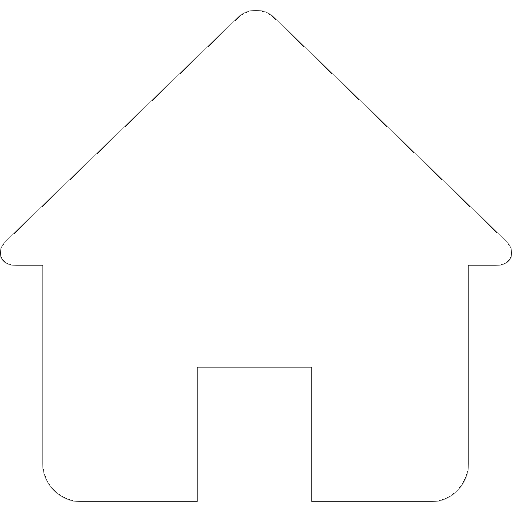
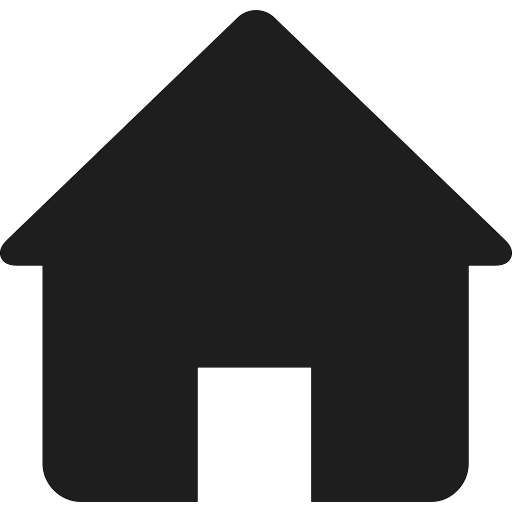
cambios casi finales

diff --git a/css/estilo.css b/css/estilo.css
@@ -1391,6 +1391,7 @@ APP PRINCIPAL
 }
 
 .app-forms{
+    overflow-y: auto;
     align-self: baseline;
     align-content: space-between;
     width: 100%;
@@ -1417,7 +1418,7 @@ APP PRINCIPAL
     background-color: var(--secundario);
 }
 .app-forms::-webkit-scrollbar-thumb{
-    background-color: var(--texto);
+    background-color: black;
 }
 
 .form-item{
@@ -1568,7 +1569,7 @@ APP PRINCIPAL
     padding: 12px;
     border: 2px solid var(--texto);
     border-radius: 10px;
-    background: var(--fondo);
+    background: #f4f4f4;
     font-size: 16px;
     box-sizing: border-box;
 }
@@ -1579,7 +1580,7 @@ APP PRINCIPAL
     padding: 12px;
     border: none;
     border-radius: 10px;
-    background: var(--texto);
+    background: #333;
     color: white;
     font-weight: bold;
     cursor: pointer;
@@ -1731,12 +1732,12 @@ nav .btn-cerrar-sesion:active {
 
 /*app-graficar*/
 .app-graficar{
-    background-color: var(--secundario);
+    background-color: var(--color-blue-light);
 }
 
 
 .registro-semanal-item{
-    background-color: var(--tarjeta);
+    background-color: white;
 }
 
 
@@ -1871,12 +1872,12 @@ _______________________________
     border-radius: 20px;
     padding: 25px;
     width: 400px;
-    background: var(--tarjeta);
+    background: #f4f4f4;
     box-shadow: 0 10px 30px rgba(0,0,0,.25);
 }
 
 .registro-semanal-item{
-    background: var(--secundario);
+    background: var(--);
     border-color: var(--texto);
     border: solid;
     border-radius: 5%;
@@ -1888,8 +1889,8 @@ _______________________________
 
 .graficar{
     display: inline-block;
-    background: var(--color-resaltar2);
-    color: var(--texto);
+    background: var(--blue);
+    color: #f4f4f4;
     text-decoration: none;
     border-radius: 2px;
     font-weight: bold;

diff --git a/js/buscador.js b/js/buscador.js
@@ -8,7 +8,7 @@ document.getElementById("buscadorForm").addEventListener("submit", function(e) {
 
     if (texto === "rutas" || texto === "entregas" || texto === "ruta" || texto === "entrega" || texto === "transporte" || texto === "distribucion" || texto === "logistica") 
     {
-        window.location.href = rutaBase + "html/rutentrega.php";
+        window.location.href = rutaBase + "../html/rutentrega.php";
     }
 
     else if (

diff --git a/html/app/app.php b/html/app/app.php
@@ -127,7 +127,7 @@
                 include("../../base_datos/informes/conexion/abrir_conexion.php");
                 $UsurTabla=mysqli_query($conexion ,$UsurTablaSql);
                 $usurTablaArr=mysqli_fetch_assoc($UsurTabla);
-                    
+                date_default_timezone_set('America/Bogota');
                 $institucioncomprobar=$usurTablaArr['institucion'];
              
                     for($i=0;$i<=20;$i++)
@@ -190,11 +190,13 @@
                 </ul>
                 <ul class="regist_camp">
                         <li><p>fecha</p></li>
-                        <li><input type="date" name="fecha" class="fecha"></li>    
-                </ul>
+                        <li><input type="hidden" name="fecha" class="fecha" value="<?php echo date("Y-m-d");?>" placeholder="2023-10-01"></li>  
+                        <li><p><?php echo date("Y-m-d");?></p></li>  
+                </ul>   
                 <ul class="regist_camp">
                         <li><p>hora</p></li>
-                        <li><input type="time" name="hora" class="hora"></li>    
+                        <li><p><?php echo date('H:i');?></p></li>
+                        <li><input type="hidden" name="hora" class="hora" value="<?php echo date('H:i');?>"></li>    
                 </ul>
                 <input type="submit" name="btn_send_inf" class="btn_send_inf">
                 

diff --git a/base_datos/registrar_usuarios/controlador/nuevo.php b/base_datos/registrar_usuarios/controlador/nuevo.php
@@ -15,12 +15,10 @@
 
         mysqli_query($conexion,"INSERT INTO `cuentas_usuarios`
         (nombre,apellido,cedula,correo,institucion,telefono,contrasena,rol)
-        values
+        VALUES
         ('$NomUs','$ApUs','$CedUsu','$CorrUsu','$NomInsti','$Tel','$Contr','$rol')");
 
         include("../conexion/cerrar_conexion.php");
-        header('Location:../../../html/pagina4.php');
-    }else{
         header('Location:../../../html/pagina4.php');
     }
 

diff --git a/html/app/app-admin-cuentas.php b/html/app/app-admin-cuentas.php
@@ -137,7 +137,7 @@ $consulta = mysqli_query(
     if($arrayUsur['correo']!=$fila['correo']){ 
         if($fila['activa']==0){
             echo '<a href="habilitar.php?id='.$fila['id'].'&type=editar" class="edit">';
-            echo 'Inavilitado';
+            echo 'Deshabilitado';
             echo '</a>';
             }else{
                 echo'<a href="habilitar.php?id='.$fila['id'].'&type=editar" class="edit">';
